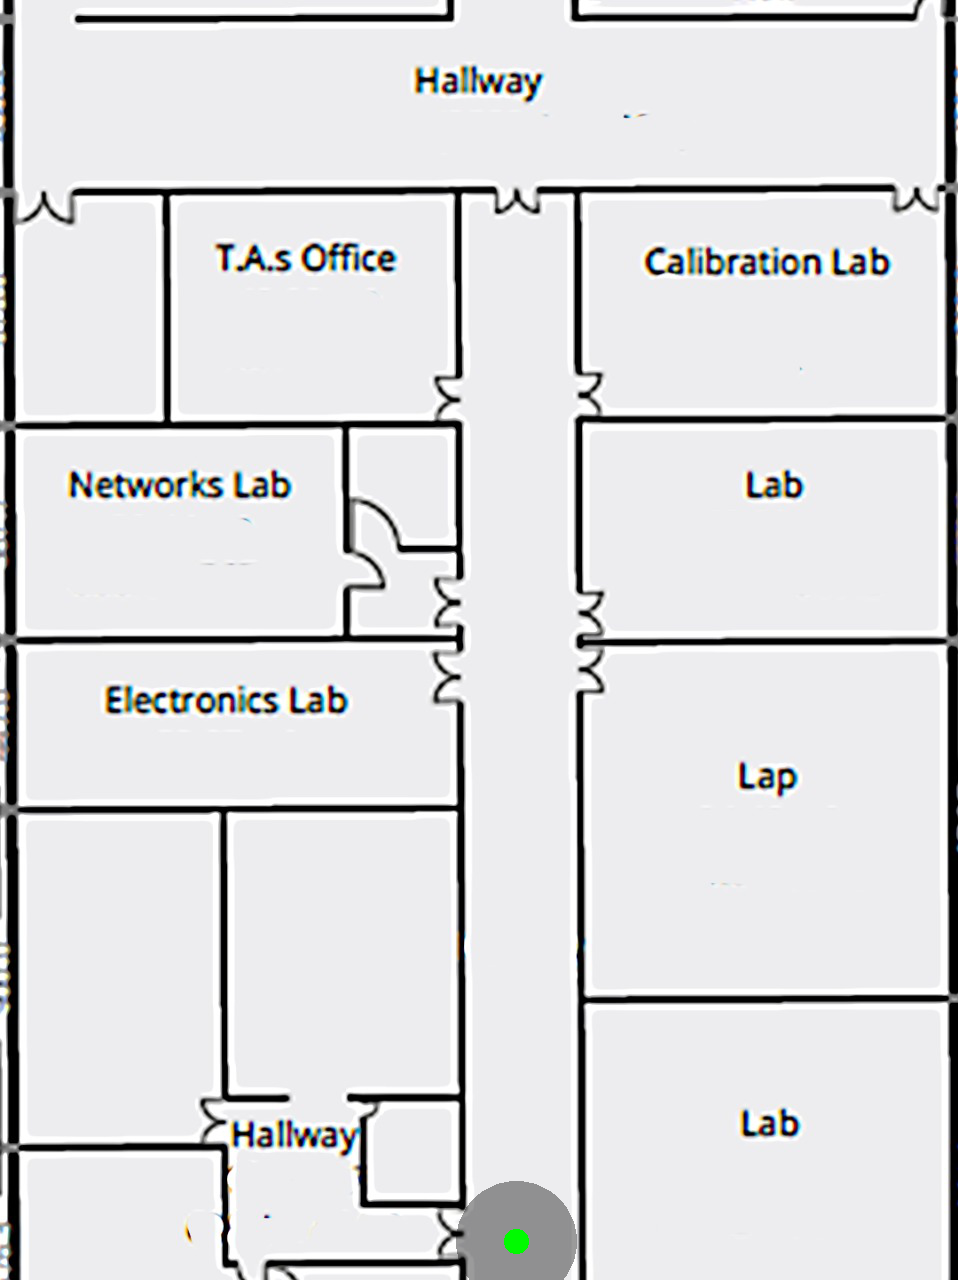
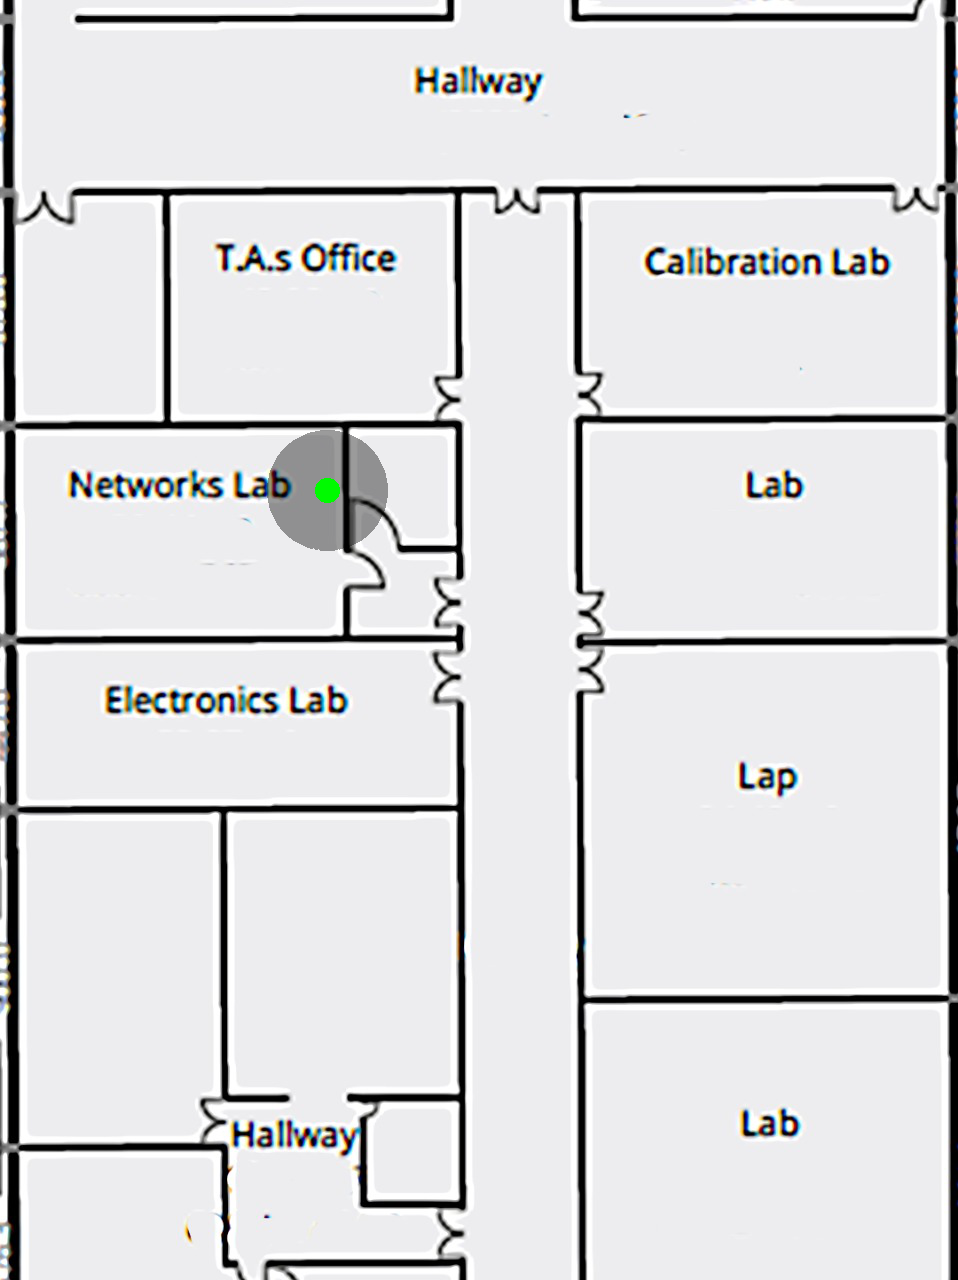
fixed tracking according to class

Changed region(s): [[0.2724, 0.3125, 0.4238, 0.4375], [0.4541, 0.9062, 0.6054, 1.0]]

diff --git a/deskAppV2/drawOnCropped.py b/deskAppV2/drawOnCropped.py
@@ -44,28 +44,48 @@ def drawCircle(img,radius,coordinates,saveTo):
         im.save(saveTo, "PNG")  
 
 
-def reMapOrigin(modelCoordinates):
-    modelX = modelCoordinates[0] 
-    modelY = modelCoordinates[1]
-    print(f'modelX: {modelX}')
-    print(f'modelY:{modelY}')
+# def reMapOrigin(modelCoordinates):
+#     modelX = modelCoordinates[0] 
+#     modelY = modelCoordinates[1]
+#     print(f'modelX: {modelX}')
+#     print(f'modelY:{modelY}')
+#     boxH = 280 
+#     boxW = 500 
+#     if modelY == 11:
+#         modelX = 1
+#         modelY = 5
+#     if modelY == 12:
+#         modelX = 2
+#         modelY = 5
+#     if modelY == 13:
+#         modelX = 1
+#         modelY = 7
+#     X =  ( HallwayW / 2) - (modelX * boxW) + 100 # fitting
+#     Y = croppedFloorHeight - (modelY * boxH)  - 100  
+#     return (X,Y)
+def reMapOrigin(modelClass):
+    print(f'modelClass:{modelClass}')
     boxH = 280 
     boxW = 500 
-    if modelY == 11:
+    if modelClass == 11:
         modelX = 1
         modelY = 5
-    if modelY == 12:
+    elif modelClass == 12:
         modelX = 2
         modelY = 5
-    if modelY == 13:
+    elif modelClass == 13:
         modelX = 1
         modelY = 7
+    else:
+        modelX = 0
+        modelY = modelClass
+        
     X =  ( HallwayW / 2) - (modelX * boxW) + 100 # fitting
     Y = croppedFloorHeight - (modelY * boxH)  - 100  
     return (X,Y)
 
-def track(modelCords,initImg,modifiedImg,circleRad):
-    x,y = reMapOrigin(modelCords)
+def track(modelClass,initImg,modifiedImg,circleRad):
+    x,y = reMapOrigin(modelClass)
     pixelX,pixelY = mapCoordinates(x,y,initImg)
     drawCircle(initImg,circleRad,(pixelX,pixelY),modifiedImg)
 

diff --git a/deskAppV2/main.py b/deskAppV2/main.py
@@ -80,18 +80,18 @@ class App(QtWidgets.QMainWindow):
         print(f'rss_list : {rss_list}')
 
         # print(rss_list)
-        self.yCoordinates = get_coordinates(rss_list) # TO BE USED Later
-        self.yCoordinates = 0
-        self.db.child("coordinates/y").set(int(self.yCoordinates)) # Push predictions to the cloud
+        self.predictedClass = get_coordinates(rss_list) # TO BE USED Later
+        self.predictedClass = 13
+        self.db.child("coordinates/y").set(int(self.predictedClass)) # Push predictions to the cloud
         # print(self.yCoordinates)
         
         
         # coords = mapCoordinates(1426,5700-264*self.yCoordinates,img)   # TODO Uncomment
         
-        predictedCords = (0,self.yCoordinates )
-        print(predictedCords) 
+        
+        # print(self.predictedClass) 
         drawnCircleRad = 12
-        track(predictedCords,self.initImg,self.modImg,drawnCircleRad)
+        track(self.predictedClass,self.initImg,self.modImg,drawnCircleRad)
         self.refreshView(self.modImg)
 
 
